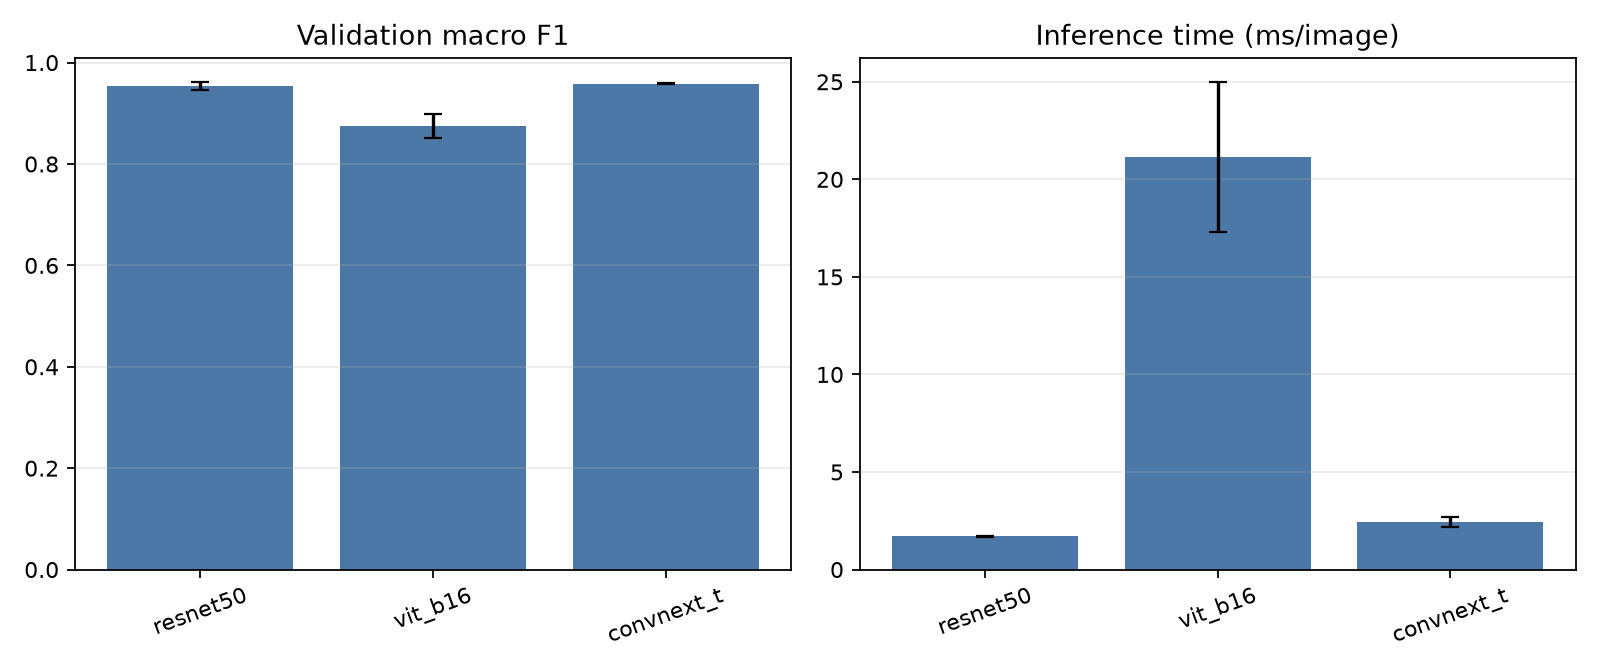
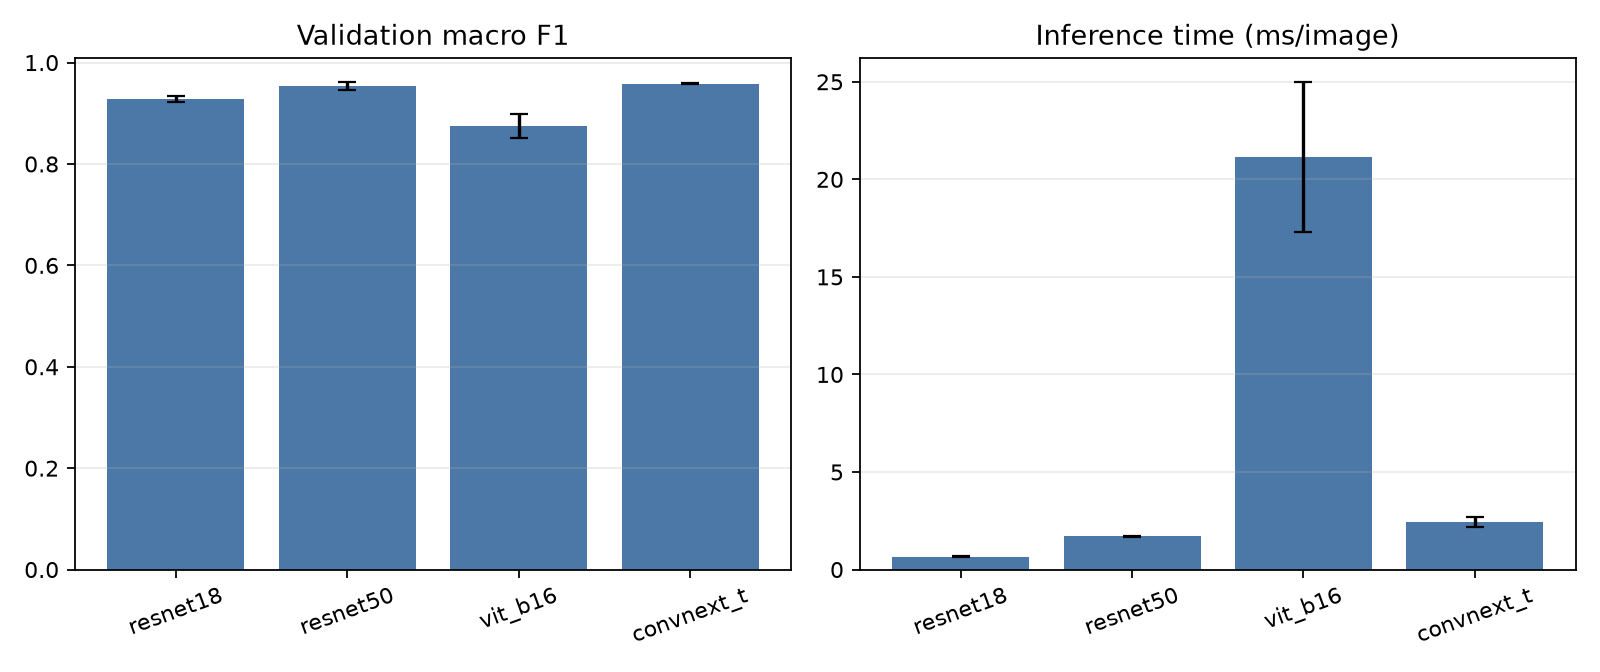
add model resnes18

diff --git a/scripts/train.py b/scripts/train.py
@@ -22,7 +22,7 @@ from src.utils.seed import set_seed
 
 def main() -> None:
     parser = argparse.ArgumentParser(description=__doc__)
-    parser.add_argument("--model", required=True, choices=("resnet50", "vit_b16", "convnext_t"))
+    parser.add_argument("--model", required=True, choices=("resnet18", "resnet50", "vit_b16", "convnext_t"))
     parser.add_argument("--seed", type=int, default=None)
     parser.add_argument("--epochs", type=int, default=None)
     parser.add_argument("--limit", type=int, default=None, help="Cap each split to this many rows for a smoke run")

diff --git a/src/models/builder.py b/src/models/builder.py
@@ -15,7 +15,7 @@ def build_model(name: str, num_classes: int, pretrained: bool = True) -> nn.Modu
     except KeyError as exc:
         raise ValueError(f"Unsupported model {name!r}; choose from {', '.join(MODEL_REGISTRY)}") from exc
     model = constructor(weights=default_weights if pretrained else None)
-    if name == "resnet50":
+    if name in {"resnet18", "resnet50"}:
         model.fc = nn.Linear(model.fc.in_features, num_classes)
     elif name == "vit_b16":
         model.heads.head = nn.Linear(model.heads.head.in_features, num_classes)

diff --git a/scripts/compare.py b/scripts/compare.py
@@ -18,7 +18,7 @@ def main() -> None:
     split_dir = PROJECT_ROOT / data_cfg["split_dir"]
     train_samples = sum(1 for _ in (split_dir / "train.csv").open(encoding="utf-8")) - 1
     val_samples = sum(1 for _ in (split_dir / "val.csv").open(encoding="utf-8")) - 1
-    models = ["resnet50", "vit_b16", "convnext_t"]
+    models = ["resnet18", "resnet50", "vit_b16", "convnext_t"]
     rows = collect_metrics(
         PROJECT_ROOT / "experiments",
         models,

diff --git a/src/models/registry.py b/src/models/registry.py
@@ -4,6 +4,7 @@ from torchvision import models
 
 
 MODEL_REGISTRY = {
+    "resnet18": (models.resnet18, models.ResNet18_Weights.DEFAULT),
     "resnet50": (models.resnet50, models.ResNet50_Weights.DEFAULT),
     "vit_b16": (models.vit_b_16, models.ViT_B_16_Weights.DEFAULT),
     "convnext_t": (models.convnext_tiny, models.ConvNeXt_Tiny_Weights.DEFAULT),

diff --git a/scripts/evaluate.py b/scripts/evaluate.py
@@ -20,7 +20,7 @@ from src.models.builder import build_model
 from src.utils.config import load_yaml
 
 
-MODELS = ("resnet50", "vit_b16", "convnext_t")
+MODELS = ("resnet18", "resnet50", "vit_b16", "convnext_t")
 
 
 def main() -> None:

diff --git a/src/models/resnet18/model.py b/src/models/resnet18/model.py
@@ -1,0 +1,7 @@
+"""ResNet-18 classifier factory."""
+
+from src.models.builder import build_model
+
+
+def create_model(num_classes: int, pretrained: bool = True):
+    return build_model("resnet18", num_classes, pretrained)

diff --git a/src/models/resnet18/__init__.py b/src/models/resnet18/__init__.py
@@ -1,0 +1,1 @@
+"""ResNet-18 classifier model package."""

diff --git a/PROJECT.md b/PROJECT.md
@@ -37,7 +37,7 @@ Bài toán phân loại trái cây, thuộc loại classification với 10 class
 - Ghi chú đặc biệt: tên nhãn raw không đồng nhất; ảnh processed được chuẩn hóa JPEG/RGB.
 
 ## Mục tiêu
-- So sánh các model: resnet50, vit_b16, convnext_t
+- So sánh các model: resnet18, resnet50, vit_b16, convnext_t
 - Metric chính: f1
 - Metric phụ: tốc độ suy luận, số tham số, thời gian train
 - Điều kiện thành công:
@@ -54,16 +54,17 @@ Bài toán phân loại trái cây, thuộc loại classification với 10 class
 - [x] EDA
 - [x] Chốt split (`data/splits/v1/`)
 - [x] Pipeline chạy thông suốt với một model (baseline smoke run)
-- [x] Tạo factory cho các model resnet50, vit_b16, convnext_t
+- [x] Tạo factory cho các model resnet18, resnet50, vit_b16, convnext_t
 - [x] Hoàn thiện script tổng hợp comparison CSV/Markdown/biểu đồ
 - [x] Chạy đủ 3 seed cho mỗi model
 - [x] Chạy `compare.py`, xuất bảng so sánh trong `reports/`
-- [ ] Đánh giá 9 checkpoint trên test split và xuất báo cáo test
+- [ ] Đánh giá 12 checkpoint trên test split và xuất báo cáo test
 
 ## Quyết định đã chốt
 - 2026-11-03, recipe chung dùng ảnh 224×224, horizontal flip khi train, chuẩn hóa ImageNet, AdamW (lr 0.0003, weight decay 0.0001), batch size 32, 10 epoch và ImageNet pretrained weights.
 - 2026-11-03, pipeline train dùng chung đọc CSV split v1; smoke run có thể giới hạn số dòng bằng `--limit` và ghi checkpoint/log/metrics trong `experiments/`.
 - 2026-11-03, hoàn tất 9 lượt train (3 model × seed 42/43/44), mỗi lượt 10 epoch trên cùng split v1 và recipe chung; bảng so sánh gộp trung bình ± độ lệch chuẩn theo seed.
+- 2026-11-03, bổ sung ResNet-18 với torchvision ImageNet weights và cùng recipe; smoke check tối đa 64 ảnh không được tính vào so sánh. Cần chạy lại ba seed đầy đủ cho ResNet-18 và chạy lại bảng validation bốn model.
 - 2026-11-03, giữ nguyên `data/raw/` trong quá trình EDA; notebook chỉ đọc dữ liệu.
 - 2026-11-03, phải xử lý/loại trừ exact duplicate giữa train và test trước khi chốt split vì EDA phát hiện 122 nhóm ảnh trùng nội dung giữa hai split.
 - 2026-11-03, `src/data/dataset.py` chỉ nhận `root`, danh sách `images`, danh sách `labels` và `transform`; chuẩn hóa nhãn sẽ thực hiện ở bước tạo `processed/`.
@@ -81,5 +82,6 @@ Bài toán phân loại trái cây, thuộc loại classification với 10 class
 - Báo cáo đã tạo: `reports/comparison.csv`, `reports/comparison.md`, `reports/figures/comparison.png`; kết quả là trên validation, chưa phải benchmark test.
 
 ## Vấn đề đang mở
-- Đã hoàn tất pipeline và so sánh validation. Script `python scripts/evaluate.py` đã sẵn sàng để đánh giá inference-only cả 9 checkpoint trên test split, lưu metrics theo từng run và xuất `reports/test_comparison.csv`, `reports/test_comparison.md`, `reports/figures/test_comparison.png`.
+- Cần chạy ResNet-18 đủ seed 42/43/44 rồi chạy lại `python scripts/compare.py`; các báo cáo hiện tại vẫn phản ánh ba model cũ.
+- Script `python scripts/evaluate.py` đã hỗ trợ inference-only cho cả bốn model; sau khi hoàn tất ba seed ResNet-18, có thể đánh giá 12 checkpoint trên test split và xuất `reports/test_comparison.csv`, `reports/test_comparison.md`, `reports/figures/test_comparison.png`.
 - Bước test chưa chạy; chỉ chạy sau khi đã chốt model/recipe từ validation. Test scores không được dùng để chọn lại model.

diff --git a/reports/test_comparison.md b/reports/test_comparison.md
@@ -5,6 +5,7 @@ Inference time is milliseconds per image; parameter count is in millions; traini
 
 | Model | Seeds | Macro F1 | Accuracy | Params (M) | Inference (ms/image) | Train (min) |
 |---|---|---:|---:|---:|---:|---:|
-| resnet50 | 42,43,44 | 0.925 ± 0.011 | 0.925 ± 0.010 | 23.53 ± 0.00 | 1.87 ± 0.33 | 2.54 ± 0.03 |
-| vit_b16 | 42,43,44 | 0.852 ± 0.017 | 0.852 ± 0.015 | 85.81 ± 0.00 | 5.97 ± 0.23 | 13.44 ± 1.78 |
-| convnext_t | 42,43,44 | 0.924 ± 0.010 | 0.925 ± 0.010 | 27.83 ± 0.00 | 2.13 ± 0.01 | 4.61 ± 0.29 |
+| resnet18 | 42,43,44 | 0.882 ± 0.014 | 0.883 ± 0.014 | 11.18 ± 0.00 | 0.66 ± 0.06 | 1.49 ± 0.04 |
+| resnet50 | 42,43,44 | 0.925 ± 0.011 | 0.925 ± 0.010 | 23.53 ± 0.00 | 1.69 ± 0.05 | 2.54 ± 0.03 |
+| vit_b16 | 42,43,44 | 0.852 ± 0.017 | 0.852 ± 0.015 | 85.81 ± 0.00 | 6.00 ± 0.28 | 13.44 ± 1.78 |
+| convnext_t | 42,43,44 | 0.924 ± 0.010 | 0.925 ± 0.010 | 27.83 ± 0.00 | 2.17 ± 0.02 | 4.61 ± 0.29 |

diff --git a/reports/comparison.md b/reports/comparison.md
@@ -1,10 +1,11 @@
-# Model comparison
+# Model comparison (validation)
 
 Mean ± standard deviation over the configured seeds. F1 is macro F1 on the fixed validation split.
 Inference time is milliseconds per image; parameter count is in millions; training time is minutes per run.
 
 | Model | Seeds | Macro F1 | Accuracy | Params (M) | Inference (ms/image) | Train (min) |
 |---|---|---:|---:|---:|---:|---:|
+| resnet18 | 42,43,44 | 0.928 ± 0.006 | 0.927 ± 0.005 | 11.18 ± 0.00 | 0.67 ± 0.01 | 1.49 ± 0.04 |
 | resnet50 | 42,43,44 | 0.953 ± 0.007 | 0.953 ± 0.007 | 23.53 ± 0.00 | 1.70 ± 0.02 | 2.54 ± 0.03 |
 | vit_b16 | 42,43,44 | 0.875 ± 0.024 | 0.874 ± 0.022 | 85.81 ± 0.00 | 21.14 ± 3.82 | 13.44 ± 1.78 |
 | convnext_t | 42,43,44 | 0.959 ± 0.002 | 0.959 ± 0.002 | 27.83 ± 0.00 | 2.42 ± 0.25 | 4.61 ± 0.29 |
